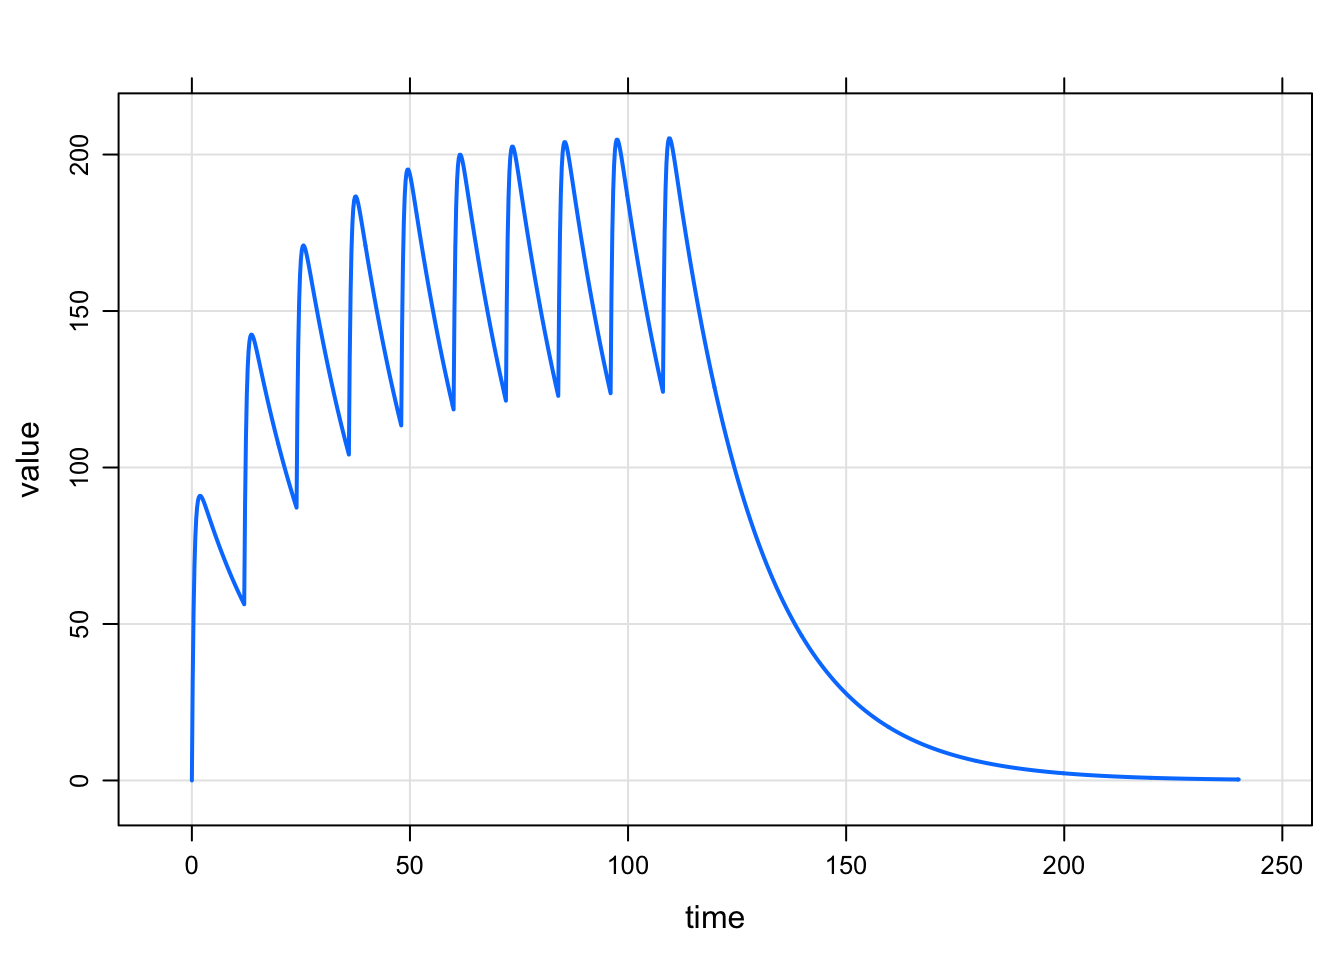
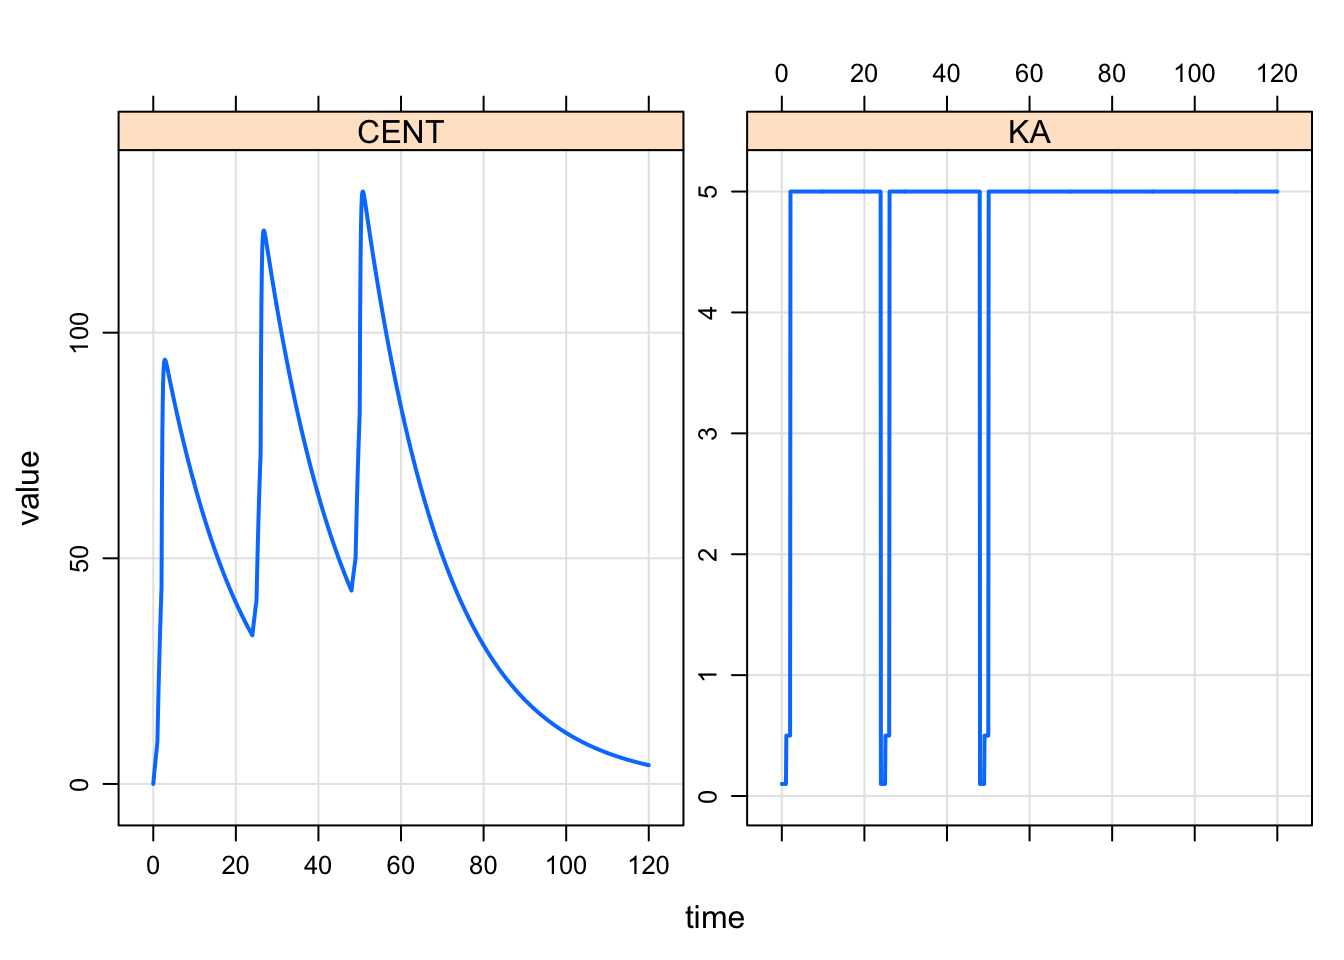
rebuild vignette

diff --git a/source/content/post/2018-09-02-modeled-interventions-in-mrgsolve.html b/source/content/post/2018-09-02-modeled-interventions-in-mrgsolve.html
@@ -18,8 +18,27 @@ tags: ["events"]
 </div>
 <div id="example-time-varying-ka" class="section level1">
 <h1>Example: time-varying KA</h1>
-<p>One common use case for modeled events are a time-varying model parameter such as an absorption rate constant. In this example, we want KA to start at the time of the oral dose and then increase at some time after the dose. And we want that to happen for every dose. We implement that by modeling that time after the dose when we want KA to change and implement at that change point.</p>
-<p>The model might look like this</p>
+<p>One common use case for modeled events are a time-varying model parameter such as an absorption rate constant. The model with constant <code>KA</code> looks like this</p>
+<pre class="r"><code>code &lt;- &#39;
+$PARAM CL = 1, V = 20, KA1 = 0.1, KA2 = 0.5, KA3 = 5
+
+$PKMODEL cmt = &quot;GUT CENT&quot;, depot = TRUE
+
+$PREAMBLE capture KA = KA1;
+
+$MAIN
+KA = KA2;
+&#39; </code></pre>
+<pre class="r"><code>library(mrgsolve)
+
+mcode(&quot;mevent0&quot;, code) %&gt;% 
+  ev(amt = 100) %&gt;% 
+  mrgsim(end = 24, delta = 0.1) %&gt;%
+  plot(CENT+KA~time)</code></pre>
+<pre><code>## Compiling mevent0 ... done.</code></pre>
+<p><img src="/post/2018-09-02-modeled-interventions-in-mrgsolve_files/figure-html/unnamed-chunk-2-1.png" width="672" /></p>
+<p>In this example, we want <code>KA</code> to start at the time of the oral dose and then increase at some time after the dose. And we want that to happen for every dose. We implement that by modeling that time after the dose when we want KA to change and implement at that change point.</p>
+<p>The model with time-varying <code>KA</code> might look like this</p>
 <pre class="r"><code>code &lt;- &#39;
 $PARAM CL = 1, V = 20, KA1 = 0.1, KA2 = 0.5, KA3 = 5
 
@@ -37,16 +56,15 @@ if(EVID==1) {
 if(EVID==33) KA = KA3;
 
 &#39; </code></pre>
-<p>Whenever we see a dose (<code>EVID==1</code>), we set <code>KA</code> to the initial (slower) <code>KA</code> value and register a model event that (in this case) happens two hours later. We use <code>EVID=33</code> for that event. Then, when we see <code>EVID==33</code> come along, we change the <code>KA</code> to the faster value.</p>
+<p>Whenever we see a dose (<code>EVID==1</code>), we set <code>KA</code> to the initial (slower) <code>KA</code> value and register a model event that (in this case) happens two hours later. We use <code>EVID=33</code> for that event. This is a arbitrary choice (it could be [almost] anything). The idea here is that, when we see <code>EVID==33</code> come along, we change the <code>KA</code> to the faster value.</p>
 <p>The simulation looks like this</p>
-<pre class="r"><code>library(mrgsolve)
-mod &lt;- mcode(&quot;mevent&quot;, code)</code></pre>
+<pre class="r"><code>mod &lt;- mcode(&quot;mevent&quot;, code)</code></pre>
 <pre><code>## Compiling mevent ... done.</code></pre>
 <pre class="r"><code>mod %&gt;% 
   ev(amt = 100) %&gt;% 
   mrgsim(end = 24, delta = 0.1) %&gt;%
   plot(CENT+KA~time)</code></pre>
-<p><img src="/post/2018-09-02-modeled-interventions-in-mrgsolve_files/figure-html/unnamed-chunk-2-1.png" width="672" /></p>
+<p><img src="/post/2018-09-02-modeled-interventions-in-mrgsolve_files/figure-html/unnamed-chunk-4-1.png" width="672" /></p>
 <p>We can refine this even more with an additional intervention time for an intermediate value of <code>KA</code></p>
 <pre class="r"><code>code &lt;- &#39;
 $PARAM CL = 1, V = 20, KA1 = 0.1, KA2 = 0.5, KA3 = 5
@@ -77,15 +95,46 @@ if(EVID==34) KA = KA3;
 <pre><code>## Compiling mevent2 ... done.</code></pre>
 <pre class="r"><code>mod %&gt;% 
   ev(amt = 100) %&gt;% 
-  mrgsim(end = 12, delta = 0.1) %&gt;%
+  mrgsim(end = 8, delta = 0.1) %&gt;%
   plot(CENT+KA~time)</code></pre>
-<p><img src="/post/2018-09-02-modeled-interventions-in-mrgsolve_files/figure-html/unnamed-chunk-4-1.png" width="672" /></p>
-<p>Now we have the two change points implemented. Multiple doses would look like this:</p>
+<p><img src="/post/2018-09-02-modeled-interventions-in-mrgsolve_files/figure-html/unnamed-chunk-6-1.png" width="672" /></p>
+<p>Now we have the two change points implemented.</p>
+<p>Multiple doses would look like this</p>
 <pre class="r"><code>mod %&gt;% 
   ev(amt = 100, ii = 24, addl = 2) %&gt;% 
   mrgsim(end = 120, delta = 0.1) %&gt;%
   plot(CENT+KA~time)</code></pre>
-<p><img src="/post/2018-09-02-modeled-interventions-in-mrgsolve_files/figure-html/unnamed-chunk-5-1.png" width="672" /></p>
+<p><img src="/post/2018-09-02-modeled-interventions-in-mrgsolve_files/figure-html/unnamed-chunk-7-1.png" width="672" /></p>
+<p>And we can model this so that the change point is a function of a model parameter</p>
+<pre class="r"><code>code &lt;- &#39;
+$PARAM CL = 1, V = 20, KA1 = 0.1, KA2 = 0.5, KA3 = 5
+MTIME1 = 2
+
+
+$PKMODEL cmt = &quot;GUT CENT&quot;, depot = TRUE
+
+$PREAMBLE capture KA = KA1;
+
+$MAIN
+
+if(EVID==1) {
+  KA = KA1;
+  self.mevent(TIME + MTIME1, 33);
+}
+
+if(EVID==33) KA = KA3;
+
+&#39; </code></pre>
+<pre class="r"><code>mod &lt;- mcode(&quot;mevent3&quot;, code)</code></pre>
+<pre><code>## Compiling mevent3 ... done.</code></pre>
+<pre class="r"><code>idata &lt;- data.frame(MTIME1 = seq(0,2.5,0.5))
+
+mod %&gt;% 
+  ev(amt = 100) %&gt;% 
+  idata_set(idata) %&gt;%
+  mrgsim(end = 8, delta = 0.1) %&gt;%
+  plot(CENT+KA~time)</code></pre>
+<p><img src="/post/2018-09-02-modeled-interventions-in-mrgsolve_files/figure-html/unnamed-chunk-9-1.png" width="672" /></p>
 </div>
 <div id="example-modeled-dosing-events" class="section level1">
 <h1>Example: modeled dosing events</h1>
@@ -111,9 +160,9 @@ if(TIME/12 ==floor(TIME/12) &amp;&amp; TIME &lt; 120) {
 <li>dose amount</li>
 <li>rate (for infusions)</li>
 </ol>
-<pre class="r"><code>mod &lt;- mcode(&quot;mevent3&quot;, code)</code></pre>
-<pre><code>## Compiling mevent3 ... done.</code></pre>
+<pre class="r"><code>mod &lt;- mcode(&quot;mevent4&quot;, code)</code></pre>
+<pre><code>## Compiling mevent4 ... done.</code></pre>
 <pre class="r"><code>mod %&gt;%  mrgsim(end = 240, delta = 0.2) %&gt;% plot(CENT~time)</code></pre>
-<p><img src="/post/2018-09-02-modeled-interventions-in-mrgsolve_files/figure-html/unnamed-chunk-7-1.png" width="672" /></p>
+<p><img src="/post/2018-09-02-modeled-interventions-in-mrgsolve_files/figure-html/unnamed-chunk-11-1.png" width="672" /></p>
 <p>So here, we simulated without the data set and implemented the dosing from within the model. This isn’t the way you should be implementing dosing like this on a regular basis, but it shows how you can trigger doses from within the model based on what has gone on up to that point in the simulation.</p>
 </div>
